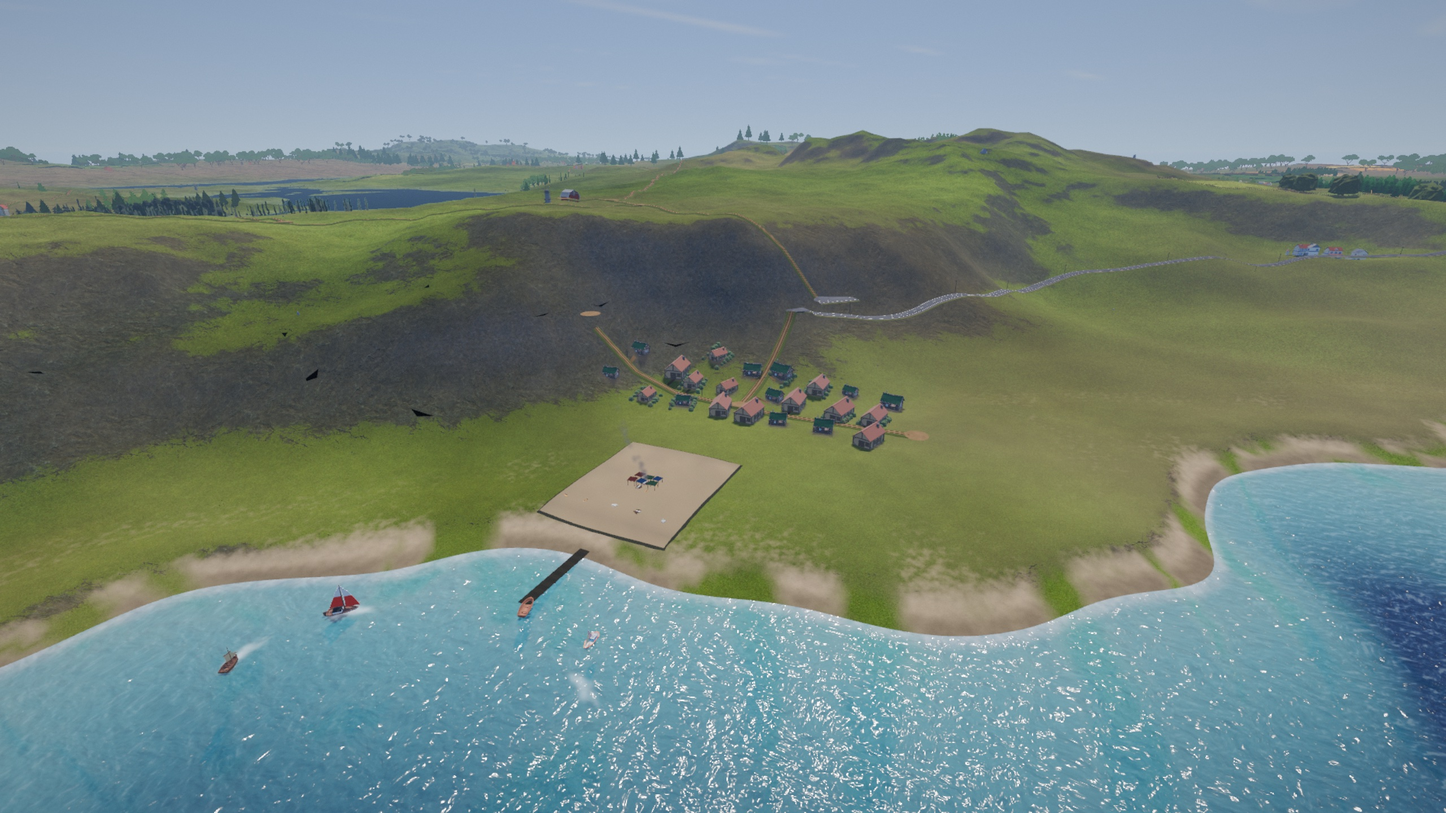
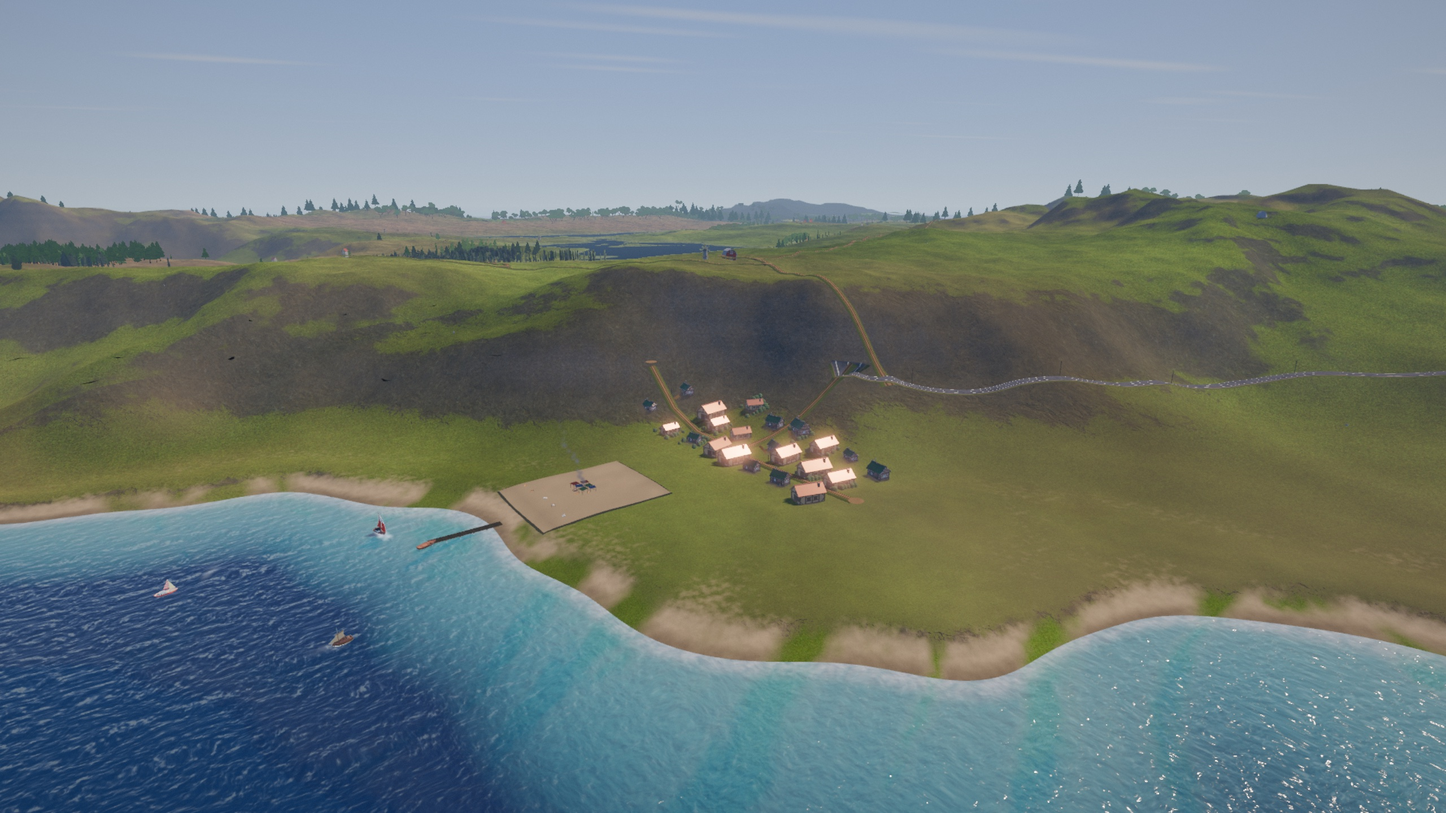
Re-shoot the storefront on the current build, and add a night shot
Every screenshot predated this month's graphics work, and three of them were
1152x648 against the others' 2560x1440. All six are re-shot at 2560x1440 on the
default seed, so the store images and what a player actually boots into agree.

The new one is moonlit-night. Night was the single biggest change: the sky's
sun-side lobes keyed on the key light, and the key light becomes the MOON after
dark, so the moon used to wear the sun's halo and wash the whole moon-facing half
of the sky pale. With that gated, the island goes properly dark and the village
lights and the moon's glitter road are the only things in the frame -- which is
worth a picture, and the README now claims a day/night cycle with something to
show for it.

golden-hour is also materially different: the sun used to be a 9.94-degree-radius
blob, about 37x its real angular size, so "golden hour" was a wash of orange with
a white hole in it. It is now a disc sitting on the headland with the water's
glitter road running back to it.

The day/night bullet was one clause sharing a line with audio and the HUD; split
out and written to say what you see. Dropped dusk-storm.jpg, which nothing
referenced.

in-flight-hud.jpg is deliberately kept: it is a chase-camera shot of the aircraft
and the HUD, and neither changed in this pass.

diff --git a/README.md b/README.md
@@ -86,13 +86,19 @@ If that is miserable, hit **Tab** for the stability assist while you learn.
   pewter and dancing with raindrop rings. Storms bring lightning, with thunder
   that arrives late from far-off strikes. When the squall moves through, the
   island stays wet and glistening for a few minutes while it dries out.
-- A **day/night cycle**, positional audio (the rain and thunder are synthesized
-  live, like everything else you hear), and a full instrument HUD with a moving
-  map.
+- A **day/night cycle** on a moving sun and moon. Sunrise and sunset put the warm
+  band where the sun actually is, the sea takes a glitter road from whichever one
+  is up, and after dark the island goes properly dark — village windows and street
+  lamps become the only warm light in the frame, and the moon is bright enough to
+  fly by.
+- **Positional audio** (the rain and thunder are synthesized live, like everything
+  else you hear), and a full instrument HUD with a moving map.
 
 Change the seed in the settings menu and you get a completely different island.
 The default map is a compact one where you can see the whole coast at once;
 there are bigger ones in there too, and they are less finished.
+
+![Moonlight on the water, village lights on the headland](screenshots/moonlit-night.jpg)
 
 ![A rain squall closing over the village](screenshots/storm-village.jpg)
 
